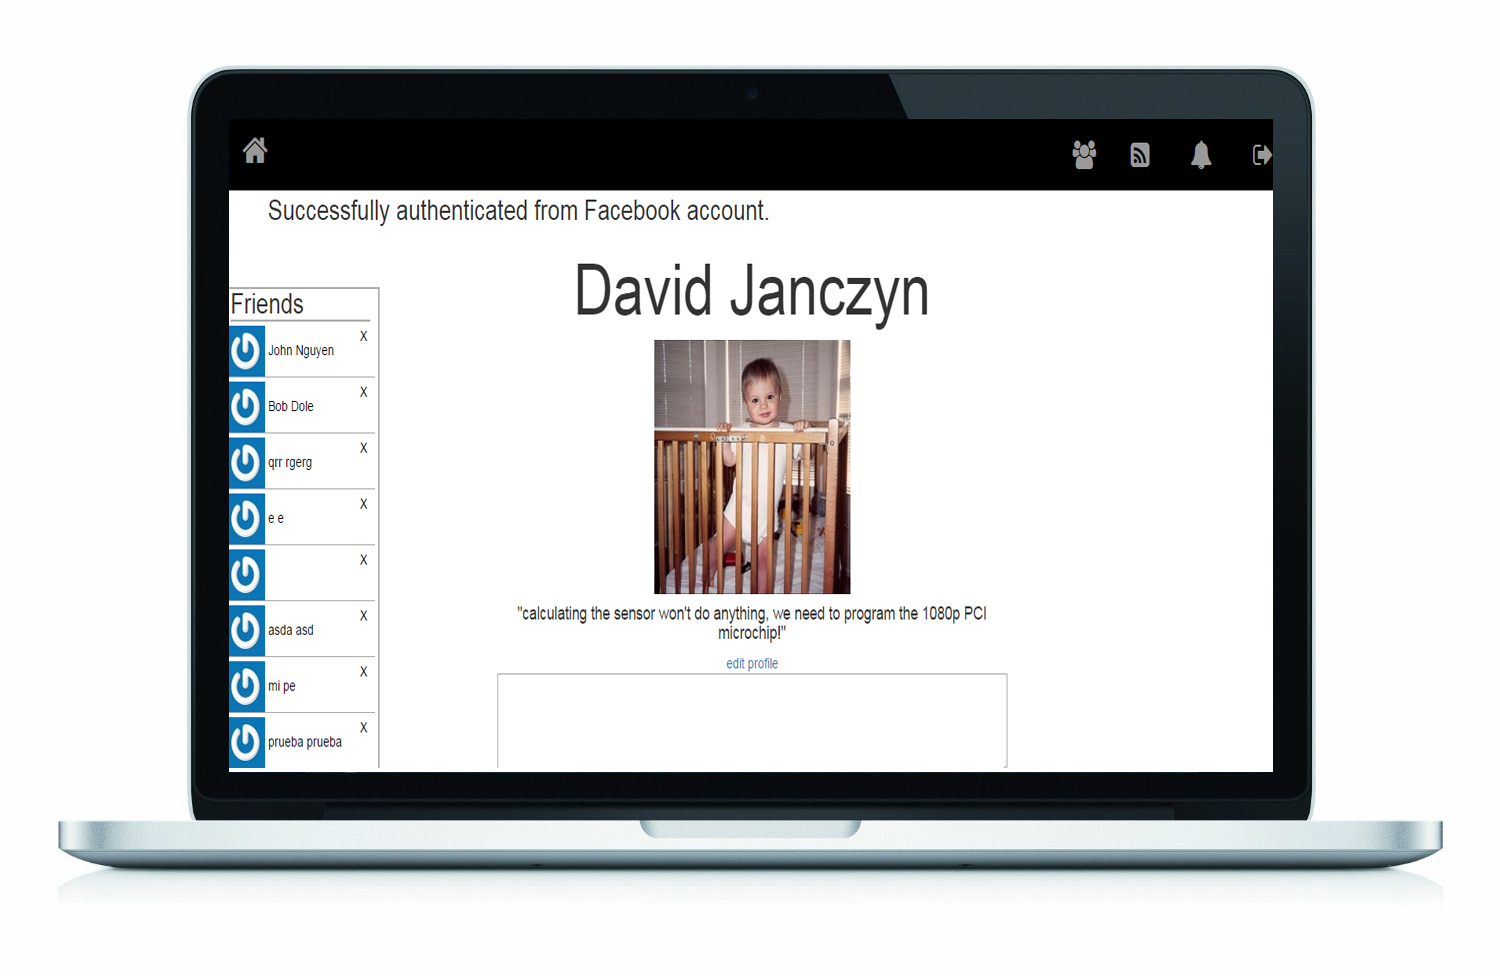
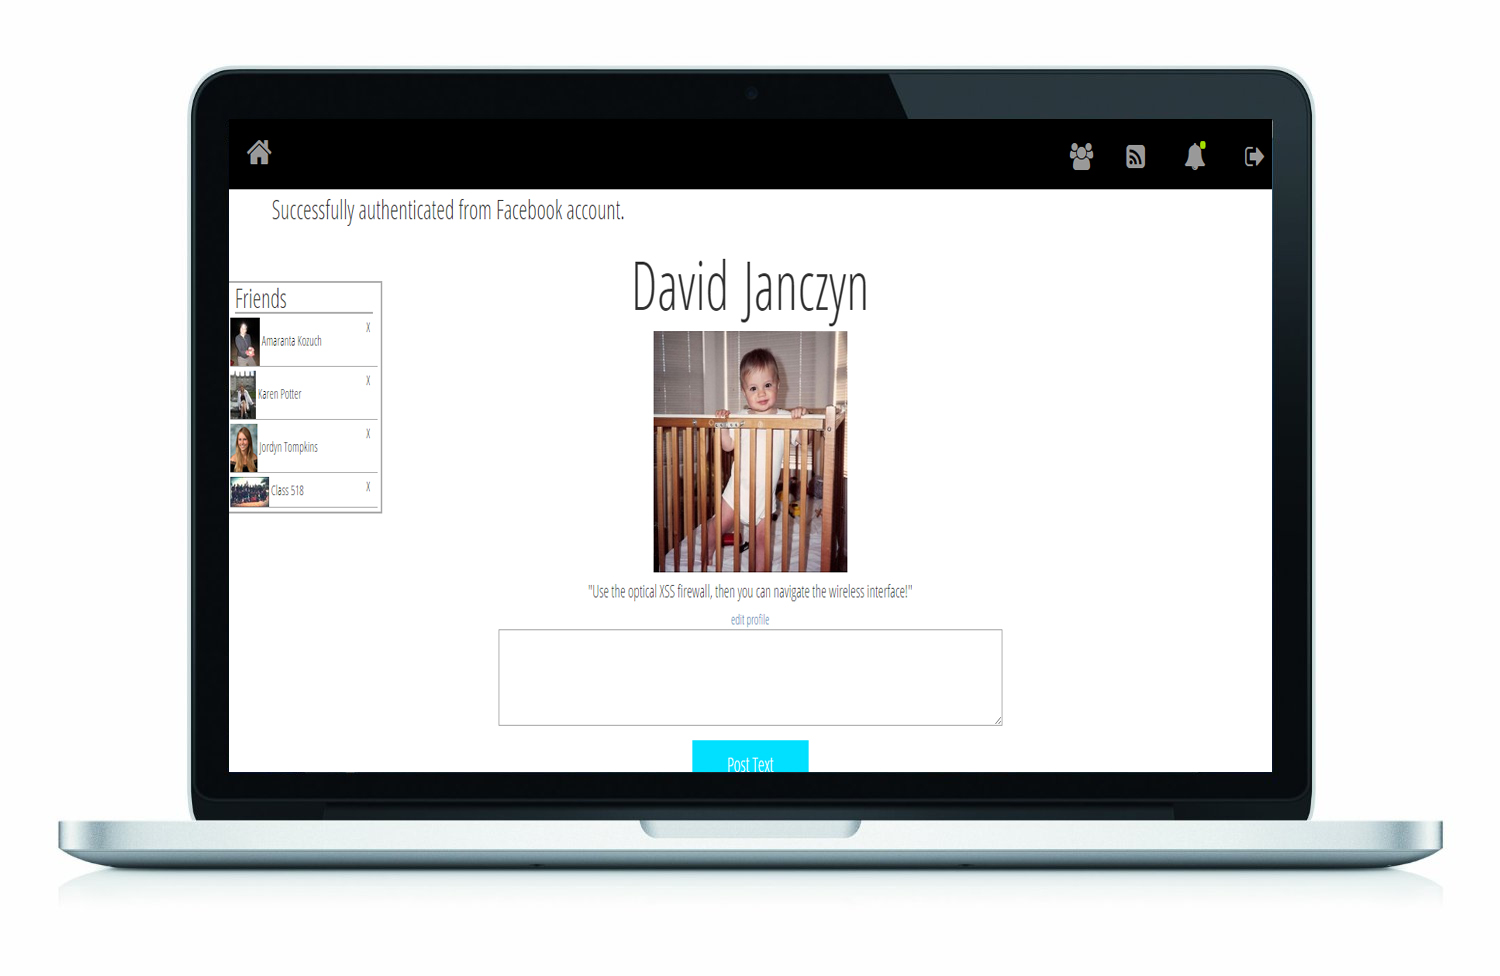
final design changes

diff --git a/app/assets/stylesheets/custom.scss b/app/assets/stylesheets/custom.scss
@@ -141,7 +141,7 @@ section#quote {
 			transform: rotate(90deg);
 		}
 		h3 {
-			color: #394851;
+			color: $primary-text-color;
 			text-align: center;
 			background-position: 0 3px;
 			margin: 15px;
@@ -205,7 +205,7 @@ section#quote {
 }
 
 #portfolio {
-	margin-bottom: 150px;
+	margin-bottom: 100px;
 }
 
 .surf {
@@ -260,21 +260,21 @@ section#quote {
 			cursor: pointer;
 			border-radius: 3px;
 		    outline:none;
+		    float: right;
 			width: 200px;
 			height: 50px;
-			line-height: 50px;
+			line-height: 40px;
 			text-align: center;
 			box-shadow: none;
-			background: $accent-color;
-			color: #ffffff;
-			margin-top: 15px;
-			margin-bottom: 25px;
-			margin-left: 10px;
+			color: $accent-color;
+			margin: 15px 15px 25px 10px;
 			font-size: 1.25em;
+			transition: all .5s ease-out;
+			border: 2px solid $accent-color;
 				&:hover {
 					border: 2px solid $accent-color;
-					color: $accent-color;
-					background: #ffffff;
+					color: #fff;
+					background: $accent-color;
 
 				}
 
@@ -292,6 +292,7 @@ footer {
 	border-top: 2px solid $accent-color;
 	text-align: center;
 	height: 50px;
+	clear: both;
 	a {
 		display: inline-block;
 	}

diff --git a/app/assets/stylesheets/flexslider.scss b/app/assets/stylesheets/flexslider.scss
@@ -276,11 +276,7 @@ html[xmlns] .flexslider .slides {
     position:relative;
 }
 .flex-caption {
-    position:absolute;
-    left:0;
-    right:0;
-    bottom: -150px;
-    z-index:1;
+    z-index:9999;
     padding:5px;
     color: #333;
     a {
@@ -311,7 +307,7 @@ html[xmlns] .flexslider .slides {
 	}
 	.flex-caption {
 		position: relative;
-    padding-bottom: 50px;
+    margin-top: 100px;
 	}
 	.flex-caption .caption {
 		text-align: left;
@@ -319,3 +315,9 @@ html[xmlns] .flexslider .slides {
 
 
 }
+@media screen and (min-width: 1280px) {  
+  .flex-caption {
+    margin-top: 125px;
+  }
+}
+

diff --git a/app/assets/stylesheets/responsive-nav.scss b/app/assets/stylesheets/responsive-nav.scss
@@ -94,9 +94,7 @@ NAVIGATION STYLES
 	float: left;
 	border-top: 1px solid #ccc;
 }
-.nav-collapse:nth-child(2) {
-	border-bottom: 1px solid #ccc;
-}
+
 
 @media screen and (min-width: 40em) {
 	.nav-collapse a {
@@ -110,6 +108,9 @@ NAVIGATION STYLES
 	.nav-collapse ul, li {
 		background: rgba(0,0,0,0);
 	}
+	.nav-collapse:nth-child(2) {
+	border-bottom: none;
+}
 
 }
 
